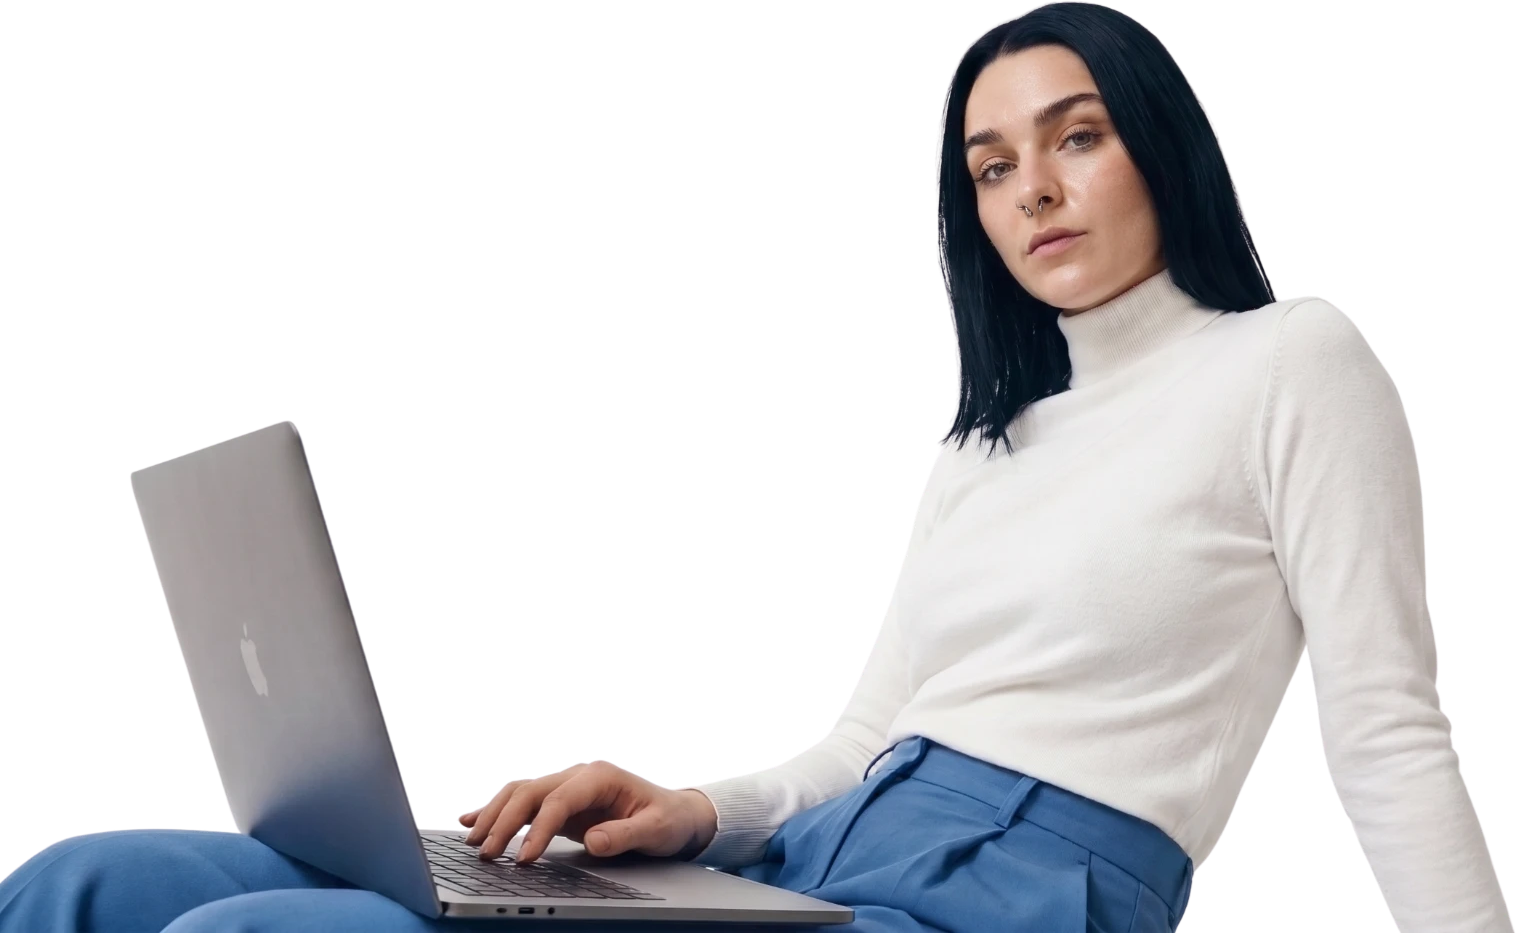
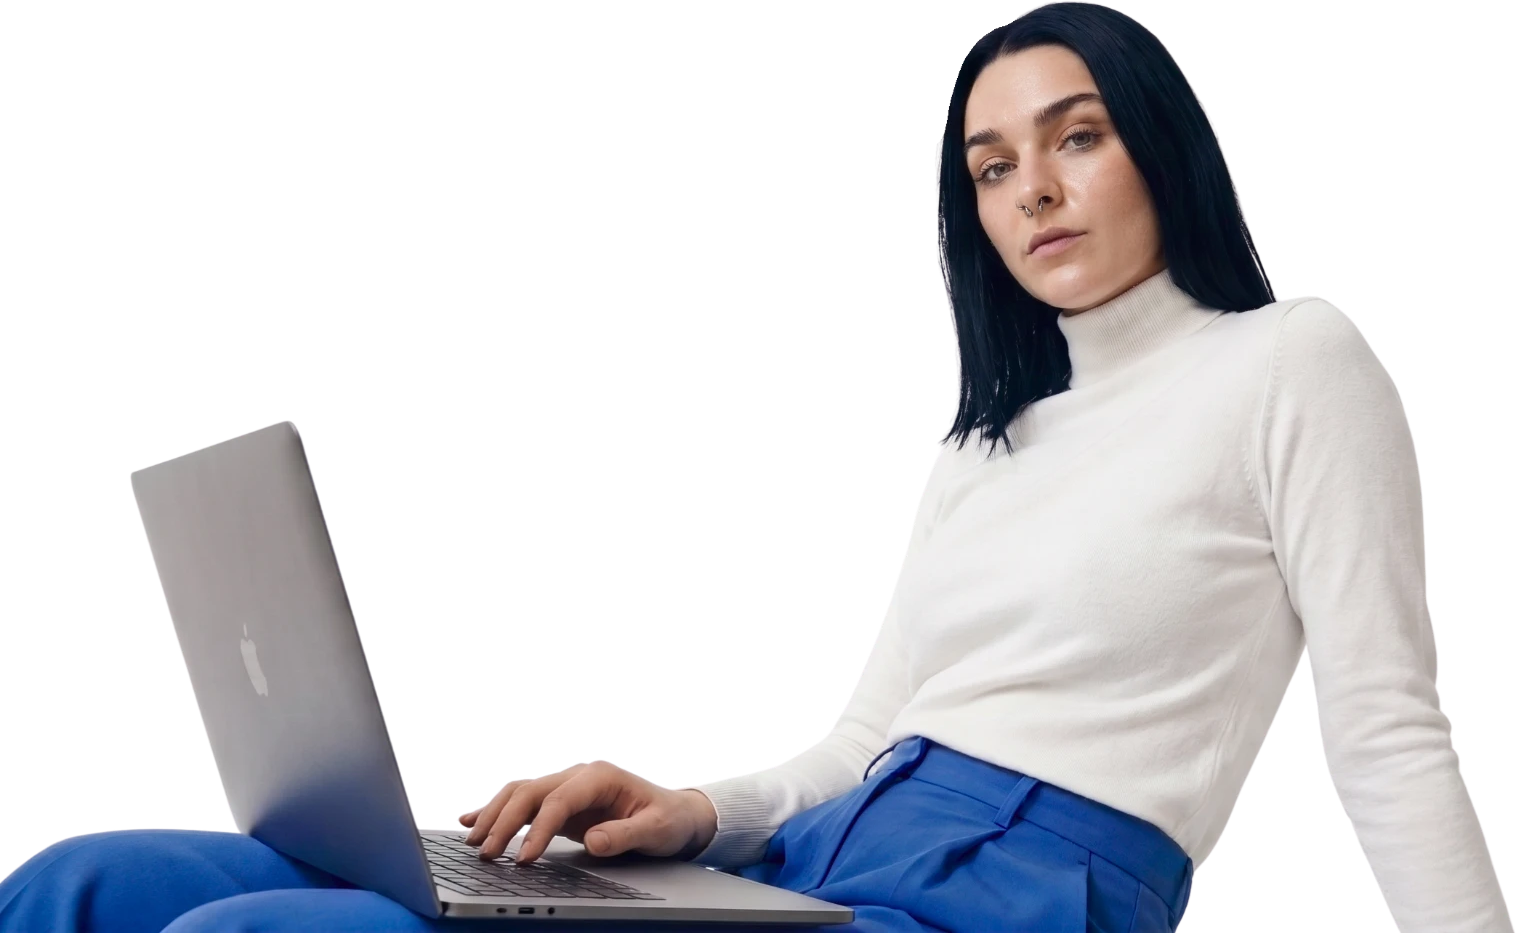
UGC v17: nueva foto de Diana
Claude-Session: https://claude.ai/code/session_01YcKiQFBhJYcwdpxSvLqgLC

Changed region(s): [[0.496, 0.7771, 0.7751, 1.0], [0.0, 0.8703, 0.31, 1.0], [0.6201, 0.0622, 0.6511, 0.1243]]

diff --git a/ugc-v17/index.html b/ugc-v17/index.html
@@ -381,7 +381,7 @@ img,video{display:block;max-width:100%}
         </div>
       </div>
     </div>
-    <img class="hero__model" src="media/modelo.webp?v=3" alt="Diana con su laptop" fetchpriority="high">
+    <img class="hero__model" src="media/modelo.webp?v=4" alt="Diana con su laptop" fetchpriority="high">
   </section>
 
   <!-- Intro con números -->
